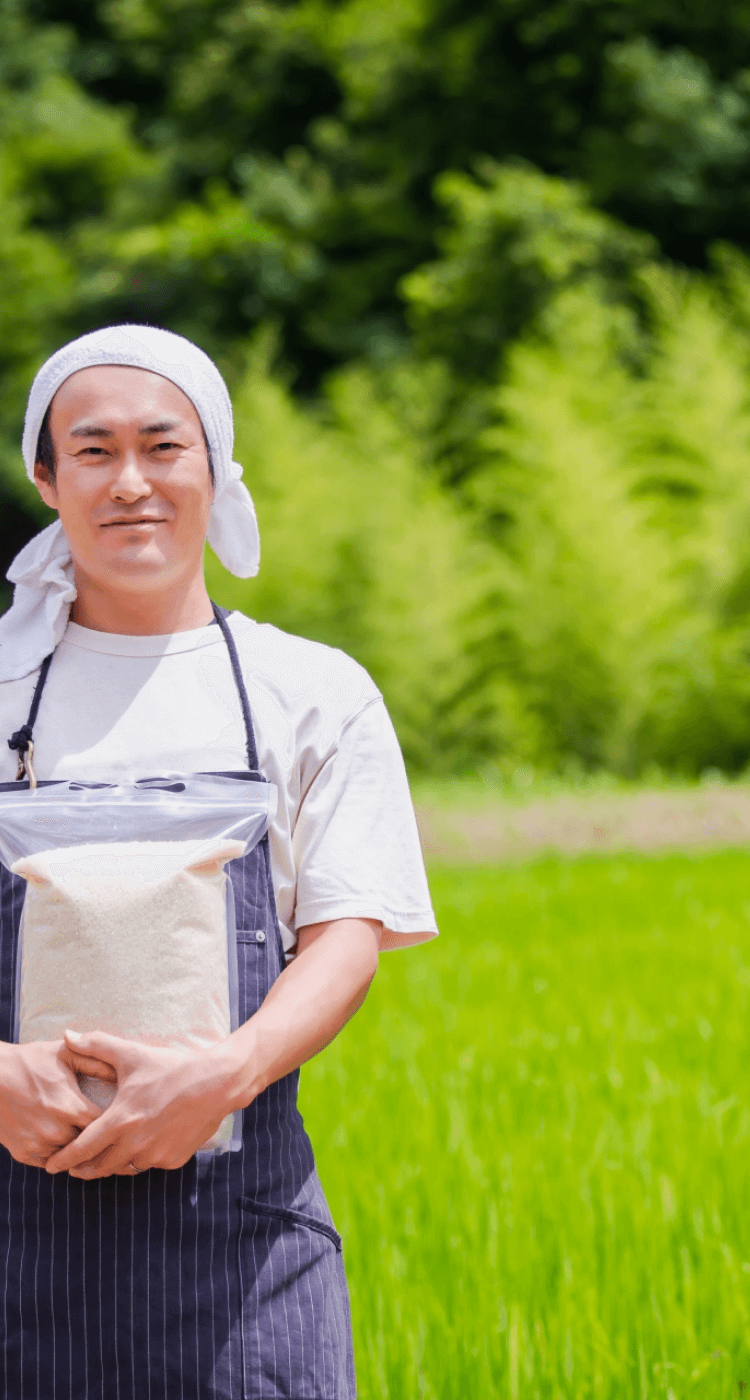
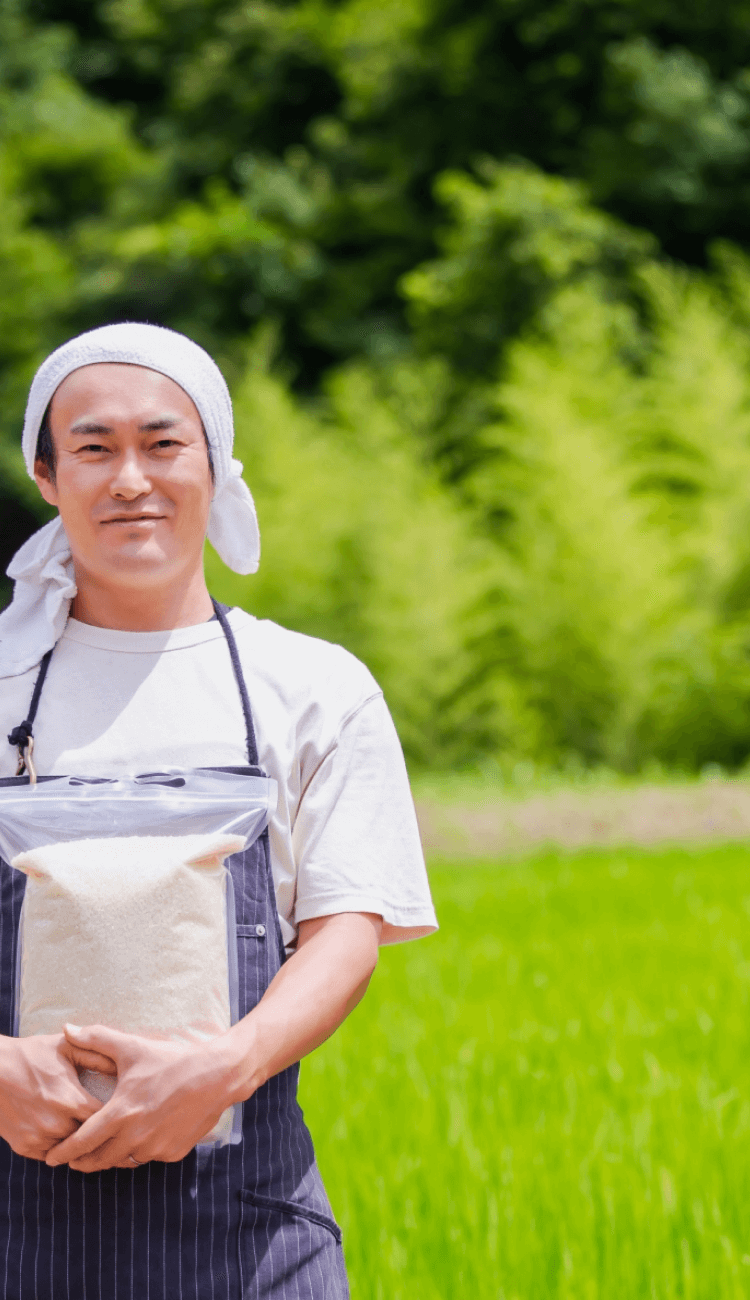
FVレスポンシブ修正

diff --git a/css/style.css b/css/style.css
@@ -138,7 +138,6 @@ dl, dt, dd {
 }
 
 .fv-swiper {
-  height: 700px;
   z-index: 0;
 }
 
@@ -146,11 +145,24 @@ dl, dt, dd {
   -webkit-filter: brightness(90%);
           filter: brightness(90%);
 }
+.fv-slide img {
+  height: 700px;
+  width: 100%;
+  -o-object-fit: cover;
+     object-fit: cover;
+  -o-object-position: center;
+     object-position: center;
+}
+@media screen and ( max-width: 767px ) {
+  .fv-slide img {
+    height: 650px;
+  }
+}
 
 .fv-copy {
   position: absolute;
   top: 10%;
-  right: 30%;
+  right: 20%;
   z-index: 1;
 }
 @media screen and ( max-width: 767px ) {
@@ -167,6 +179,11 @@ dl, dt, dd {
   width: 250px;
 }
 @media screen and ( max-width: 767px ) {
+  .fv-copy img {
+    width: 180px;
+  }
+}
+@media screen and ( min-width: 768px ) and ( max-width: 960px ) {
   .fv-copy img {
     width: 180px;
   }

diff --git a/css/style.scss b/css/style.scss
@@ -144,19 +144,28 @@ dl,dt,dd {
 }
 
 .fv-swiper {
-  height: 700px;
   z-index: 0;
-
 }
 
 .fv-slide {
   filter: brightness(90%);
+  
+  img {
+    height: 700px;
+    width: 100%;
+    object-fit: cover;
+    object-position: center;
+    
+      @include mq('sp') {
+        height: 650px;
+      }
+  }
 }
 
 .fv-copy {
   position: absolute;
   top: 10%;
-  right: 30%;
+  right: 20%;
   z-index: 1;
 
   @include mq('sp') {
@@ -171,6 +180,10 @@ dl,dt,dd {
     width: 250px;
 
     @include mq('sp') {
+      width: 180px;
+    }
+
+    @include mq('tab') {
       width: 180px;
     }
   }
